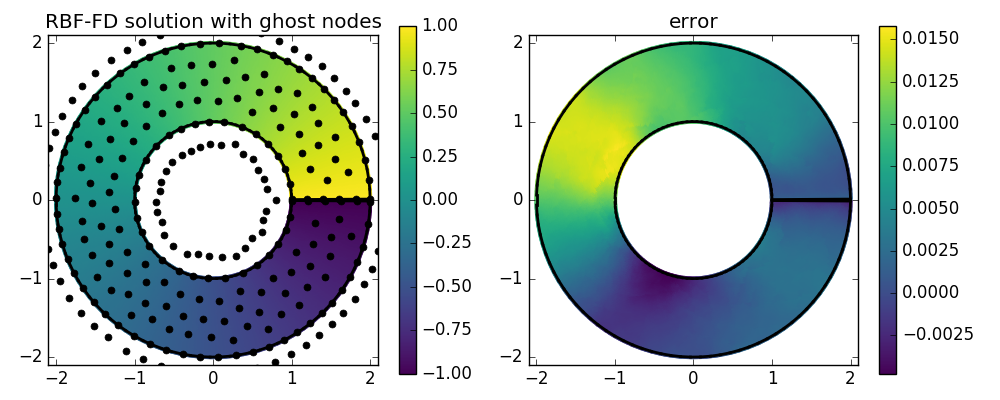
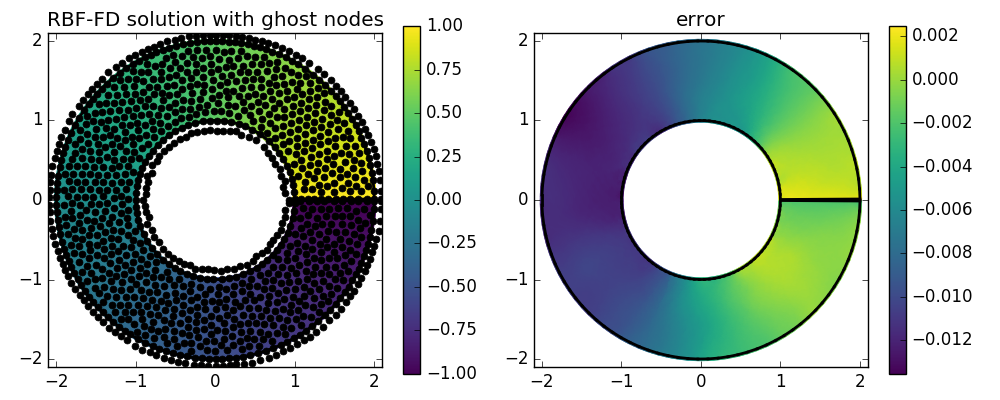
changed default stencil size function

diff --git a/rbf/fd.py b/rbf/fd.py
@@ -11,27 +11,22 @@ import logging
 logger = logging.getLogger(__name__)
 
 
-def _default_stencil_size(dim,diff=None,diffs=None):
-  if diff is not None:
+def _default_stencil_size(diff=None,diffs=None):
+  if diffs is not None:
+    max_order = max(sum(d) for d in diffs)
+    dim = len(diffs[0])
+
+  elif diff is not None:
     # maximum derivative order
     max_order = sum(diff)
-
-  elif diffs is not None:
-    max_order = max(sum(d) for d in diffs)
-
+    dim = len(diff)
+    
   else:
     max_order = 0
+    dim = 0
     
-  if max_order == 0: 
-    # if no derivative is being estimated then N=1
-    N = 1
-    
-  elif dim == 1:
-    N = max_order + 1
+  N = (max_order + 1)**dim
 
-  else:
-    N = 8
-    
   return N
 
 
@@ -384,8 +379,7 @@ def weight_matrix(x,nodes,diff=None,diffs=None,coeffs=None,
   nodes = np.asarray(nodes)
   
   if N is None:
-    N = _default_stencil_size(nodes.shape[1],
-                              diff=diff,diffs=diffs)
+    N = _default_stencil_size(diff=diff,diffs=diffs)
     
   sn,dist = rbf.stencil.nearest(x,nodes,N,vert,smp)
 
@@ -478,8 +472,7 @@ def diff_matrix(x,diff=None,diffs=None,coeffs=None,
   x = np.asarray(x)
   
   if N is None:
-    N = _default_stencil_size(x.shape[1],
-                              diff=diff,diffs=diffs)
+    N = _default_stencil_size(diff=diff,diffs=diffs)
     
   sn = rbf.stencil.stencil_network(x,N,vert,smp)
 
@@ -563,8 +556,7 @@ def poly_diff_matrix(x,diff=None,diffs=None,coeffs=None,
   x = np.asarray(x) 
 
   if N is None:
-    N = _default_stencil_size(x.shape[1],
-                              diff=diff,diffs=diffs)
+    N = _default_stencil_size(diff=diff,diffs=diffs)
     
   sn = rbf.stencil.stencil_network_1d(x,N=N,vert=vert,smp=smp)
 

diff --git a/demo/demo_fd_laplacian.py b/demo/demo_fd_laplacian.py
@@ -44,7 +44,8 @@ def forcing(pnts):
   return out
 
 # stencil size
-S = 20
+#S = 20
+S = None
 # The RBF-FD method allows for polynomial precision, where polynomials 
 # of a given order are added to the interpolant used to derive the 
 # finite difference weights.  Setting P to 2 adds a second order 
@@ -84,7 +85,7 @@ u = np.linalg.solve(A,d)
 itp,dummy = make_nodes(10000,vert,smp,itr=0)
 
 # solution at the interpolation points
-uitp = weight_matrix(itp,nodes,N=S,order=P,basis=basis).dot(u)
+uitp = weight_matrix(itp,nodes,N=9,order=P,basis=basis).dot(u)
 
 # plot the results
 fig,ax = plt.subplots(1,2,figsize=(10,4))

diff --git a/demo/demo_fd_annulus_with_ghosts.py b/demo/demo_fd_annulus_with_ghosts.py
@@ -48,13 +48,13 @@ def make_ghost_nodes(nodes,smpid,idx,vert,smp):
   return ghosts
 
 # stencil size
-S = 20
+S = 15
 # polynomial order
 P = 1
 # basis function
 basis = rbf.basis.phs3
 # number of nodes
-N = 200
+N = 1000
 
 # define the vertices and simplices for cut annulus
 t = np.linspace(0.002*np.pi,1.998*np.pi,100)
